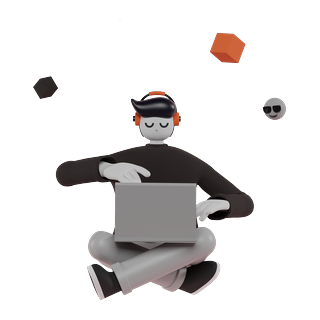
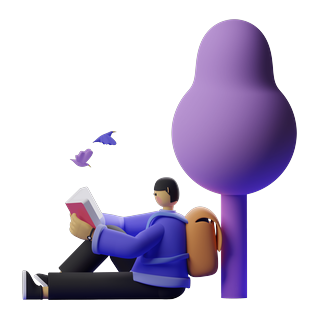
fix: 移除不好看的圆环插画，池子 5→4 并重新编号

diff --git a/app/src/art.ts b/app/src/art.ts
@@ -8,7 +8,6 @@ const RING = [
   '/art/ring-2.png',
   '/art/ring-3.png',
   '/art/ring-4.png',
-  '/art/ring-5.png',
 ]
 
 const ACT = [

diff --git a/README.md b/README.md
@@ -245,7 +245,7 @@ pnpm exec tauri dev
 ├── app/                      ← 真正的工程目录（Tauri + React）
 │   ├── src/                  ← 前端：main.tsx / App.tsx / Alert.tsx / TrayMenu.tsx / i18n.ts / art.ts / icons.tsx / ui/ / index.css
 │   ├── src-tauri/            ← 后端：src/*.rs、tauri.conf.json、capabilities/、icons/、sounds/
-│   ├── public/               ← 运行时静态资源：logo.png、cal.png、art/（13 张 3D 人物插画）
+│   ├── public/               ← 运行时静态资源：logo.png、cal.png、art/（12 张 3D 人物插画）
 │   ├── scripts/              ← 可复用脚本：make_sounds / make_logo / export_icons / check_classes
 │   ├── dist/                 ← 前端构建产物（会被打进 exe）
 │   └── package.json / pnpm-lock.yaml
@@ -348,7 +348,7 @@ main.rs → lib.rs(run)
 | 提醒文案 | `runtime.rs` 轻提醒与汇总、`reminder.rs` 弹窗标题、`App.tsx` Toast 卡片、`Alert.tsx` 警戒窗 |
 | 界面与配色 | `app/src/index.css`（开头是设计变量，主色由 `accent.ts` 运行时注入） |
 | 图标 | `app/src/icons.tsx`：语义名 → `lucide-react` 组件的映射，调用方只写 `<Icon name="pause" />` |
-| 插画 | 图片放 `app/public/art/`，池子在 `app/src/art.ts`：圆环卡 5 张、活动提醒与警戒窗 8 张，各自随机 |
+| 插画 | 图片放 `app/public/art/`，池子在 `app/src/art.ts`：圆环卡 4 张、活动提醒与警戒窗 8 张，各自随机 |
 | 窗口尺寸 / 产品名 | `app/src-tauri/tauri.conf.json`；改名还需同步 `index.html`、`App.tsx`、`lib.rs`、`runtime.rs` 多处 |
 | 托盘菜单 | `app/src/TrayMenu.tsx`（菜单项）+ `lib.rs` `tray_action`（分发） |
 | 提示音 | `app/src-tauri/sounds/*.wav` + `sound.rs`（`include_bytes!` 编译进二进制） |
